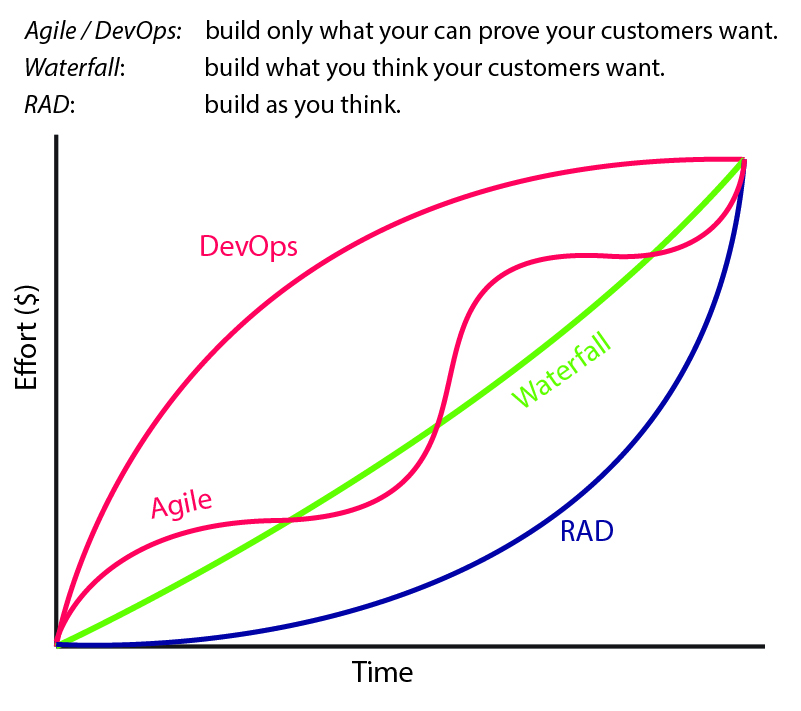
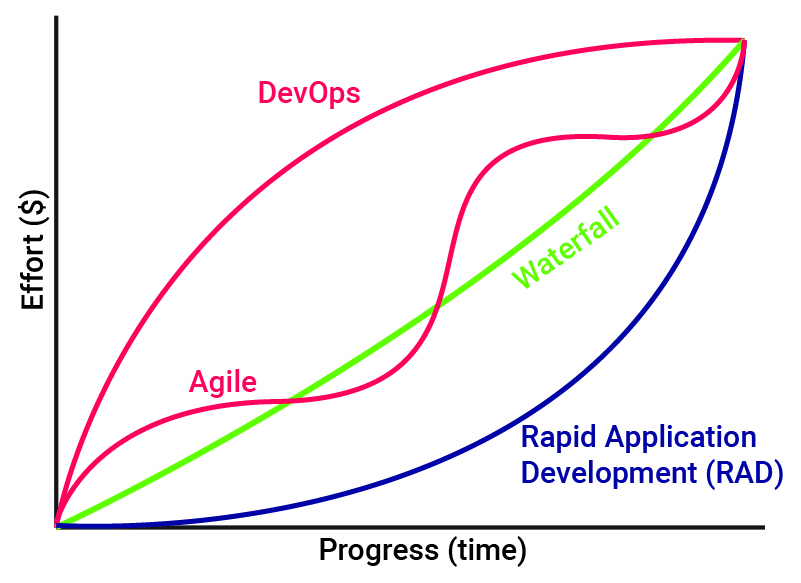
cleanup

diff --git a/src/components/AgendaItemTools.js b/src/components/AgendaItemTools.js
@@ -1,84 +1,10 @@
 import React from 'react';
-import {makeStyles} from '@material-ui/core/styles';
 import PropTypes from 'prop-types';
-import Check from '@material-ui/icons/CheckBox';
 import SpeakerNotes from '@material-ui/icons/SpeakerNotes';
-import Unchecked from '@material-ui/icons/CheckBoxOutlineBlank';
 import {withSnackbar} from 'notistack';
 import HtmlEditor from "./HtmlEditor";
 import Tabs from '@material-ui/core/Tabs';
 import Tab from '@material-ui/core/Tab';
-
-const useQontoStepIconStyles = makeStyles({
-    root: {
-        color: '#eaeaf0',
-        display: 'flex',
-        height: 22,
-        alignItems: 'center',
-    },
-    active: {
-        color: '#784af4',
-    },
-    circle: {
-        width: 8,
-        height: 8,
-        borderRadius: '50%',
-        backgroundColor: 'currentColor',
-    },
-    completed: {
-        color: '#784af4',
-        zIndex: 1,
-        fontSize: 18,
-    },
-    timer: {
-        fontSize: 11,
-        fontWeight: 800,
-        textAlign: 'center',
-        display: 'block',
-        textIndent: '-6px'
-    }
-});
-
-function QontoStepIcon(props) {
-    const classes = useQontoStepIconStyles();
-    const {status, countdown} = props;
-
-    let color = status === 'active' ? 'secondary' : 'primary';
-
-    if (typeof countdown !== 'number') return <div className={classes.circle} />
-
-    return (
-        <div>
-            {status === 'completed' ?
-                <Check className={classes.completed} color={color}/> :
-                <Unchecked color={color}/>
-            }
-            <span className={classes.timer}>{formatSeconds(countdown)}</span>
-        </div>
-    );
-}
-
-QontoStepIcon.propTypes = {
-    status: PropTypes.string,
-    active: PropTypes.bool,
-    completed: PropTypes.bool,
-};
-
-QontoStepIcon.defaultProps = {
-    status: "inactive",
-    active: false,
-    completed: false
-}
-
-const formatSeconds = (sec, len) => {
-    if (!Number(sec)) sec = 0;
-    let date = new Date(null);
-    date.setSeconds(sec); // specify value of SECONDS
-    let time = date.toISOString().substr(11, 8);
-    if (time.indexOf('01:00:00') === 0) return '60:00';
-    if (time.indexOf('00:') === 0) time = time.substr('00:'.length);
-    return time;
-}
 
 class AgendaItem extends React.Component {
 
@@ -122,18 +48,20 @@ class AgendaItem extends React.Component {
                                 className={this.state.showNotes.length > 0 ? classes.tabsHorz : classes.tabsVert}
                                 classes={{flexContainer:classes.spaceAround}}
                             >
-                                <Tab icon={<img src={'/images/Google_Sheets_logo.png'} />} classes={{root:classes.tabsIcon}} />
-                                <Tab icon={<img src={'/images/Google_Docs_logo.png'} />} classes={{root:classes.tabsIcon}} />
+                                <Tab icon={<img alt={'sheets'} src={'/images/Google_Sheets_logo.png'} />} classes={{root:classes.tabsIcon}} />
+                                <Tab icon={<img alt={'docs'} src={'/images/Google_Docs_logo.png'} />} classes={{root:classes.tabsIcon}} />
                                 <Tab icon={<SpeakerNotes/>} classes={{root:classes.tabsIcon}} />
                             </Tabs>
 
                             <TabPanel value={this.state.showNotes} index={'gsheets'}>
                                 <iframe
+                                    title='Google Sheets'
                                     src='https://docs.google.com/spreadsheets/d/1RO1mgOJoZjhGFnh0SnW4ev212LHd3byP1J-zi2BKMp8/edit?usp=sharing&rm=minimal'
                                     width={'100%'} height={'450'} seamless />
                             </TabPanel>
                             <TabPanel value={this.state.showNotes} index={'gdocs'}>
                                 <iframe
+                                    title='Google Docs'
                                     src='https://docs.google.com/document/d/1bg5p_GKXJ81CX9YhpvMVepakOcgBYDlLAYaRdFrIV0M/edit?usp=sharing&&rm=minimal'
                                     width={'100%'} height={'450'} seamless />
                             </TabPanel>

diff --git a/src/views/RallyTemplates.js b/src/views/RallyTemplates.js
@@ -1,12 +1,6 @@
 import React from 'react';
 import {withStyles} from '@material-ui/core/styles';
-import Button from '@material-ui/core/Button';
-import Paper from '@material-ui/core/Paper';
 import Typography from '@material-ui/core/Typography';
-import PropTypes from 'prop-types';
-import AppBar from '@material-ui/core/AppBar';
-import Toolbar from '@material-ui/core/Toolbar';
-// import Grid from "@material-ui/core/Grid";
 import Box from "@material-ui/core/Box";
 import {rallyStyles} from '../Util/ThemeUtils';
 import {withRouter} from "react-router";
@@ -27,28 +21,35 @@ class RallyTemplates extends React.Component {
                     <Box item className={classes.topLevelLabel} mt={2} mb={2} onClick={e => this.props.history.push(`/rally/templates/meeting/kickoff`)}>
                         <div>
                             <Typography variant={'h2'} className={classes.stepLabelText}>Kickoff</Typography>
-                            <Typography variant={'body1'}>Choose this rally type to get started</Typography>
+                            <Typography variant={'body1'}>Choose this template to get started</Typography>
                         </div>
                         <Typography variant={'caption'}>diversity ● big picture ● caring</Typography>
                     </Box>
                     <Box item className={classes.topLevelLabel} mt={2} mb={2} onClick={e => this.props.history.push(`/rally/templates/meeting/brainstorm`)}>
                         <div>
                             <Typography variant={'h2'} className={classes.stepLabelText}>Brainstorming</Typography>
-                            <Typography variant={'body1'}>Choose this rally type if you want to gather all ideas, aka diverge</Typography>
+                            <Typography variant={'body1'}>Choose this template if you want to gather all ideas, aka diverge</Typography>
                         </div>
                         <Typography variant={'caption'}>interaction ● diversity ● big picture</Typography>
                     </Box>
                     <Box item  className={classes.topLevelLabel} mt={2} mb={2} onClick={e => this.props.history.push(`/rally/templates/meeting/planning`)}>
                         <div>
                             <Typography variant={'h2'} className={classes.stepLabelText}>Planning</Typography>
-                            <Typography variant={'body1'}>Choose this rally type when you’re ready to plan</Typography>
+                            <Typography variant={'body1'}>Choose this template when you’re ready to plan</Typography>
                         </div>
                         <Typography variant={'caption'}>interaction ● sustainability ● caring</Typography>
                     </Box>
                     <Box item className={classes.topLevelLabel} mt={2} mb={2} onClick={e => this.props.history.push(`/rally/templates/meeting/action`)}>
                         <div>
                             <Typography variant={'h2'} className={classes.stepLabelText}>Action plan</Typography>
-                            <Typography variant={'body1'}>Choose this rally type to get started</Typography>
+                            <Typography variant={'body1'}>Choose this template to guide your conversation towards concrete action</Typography>
+                        </div>
+                        <Typography variant={'caption'}>action ● realizing potential</Typography>
+                    </Box>
+                    <Box item className={classes.topLevelLabel} mt={2} mb={2} onClick={e => this.props.history.push(`/rally/templates/meeting/course`)}>
+                        <div>
+                            <Typography variant={'h2'} className={classes.stepLabelText}>Course</Typography>
+                            <Typography variant={'body1'}>Choose this template to write up a lesson plan for screen and document sharing</Typography>
                         </div>
                         <Typography variant={'caption'}>action ● realizing potential</Typography>
                     </Box>

diff --git a/src/components/PlanList.js b/src/components/PlanList.js
@@ -1,14 +1,10 @@
 import React from 'react';
-import {makeStyles} from '@material-ui/core/styles';
 import Stepper from '@material-ui/core/Stepper';
 import Button from '@material-ui/core/Button';
 import Paper from '@material-ui/core/Paper';
 import Typography from '@material-ui/core/Typography';
-import PropTypes from 'prop-types';
-import Check from '@material-ui/icons/CheckBox';
 import PlayIcon from '@material-ui/icons/PlayCircleFilled';
 import StopIcon from '@material-ui/icons/PauseCircleFilled';
-import Unchecked from '@material-ui/icons/CheckBoxOutlineBlank';
 import UnfoldMore from '@material-ui/icons/UnfoldMore';
 import UnfoldLess from '@material-ui/icons/UnfoldLess';
 import VideoCall from '@material-ui/icons/VideoCall';
@@ -19,74 +15,7 @@ import Toolbar from '@material-ui/core/Toolbar';
 import MediaRecorder from "./MediaRecorder";
 import {countDown} from "../redux/entityDataReducer";
 import AgendaItem from "./AgendaItem";
-
-const useQontoStepIconStyles = makeStyles({
-    root: {
-        color: '#eaeaf0',
-        display: 'flex',
-        height: 22,
-        alignItems: 'center',
-    },
-    active: {
-        color: '#784af4',
-    },
-    circle: {
-        width: 8,
-        height: 8,
-        borderRadius: '50%',
-        backgroundColor: 'currentColor',
-    },
-    completed: {
-        color: '#784af4',
-        zIndex: 1,
-        fontSize: 18,
-    },
-    timer: {
-        fontSize: 11,
-        fontWeight: 800,
-        textAlign: 'center',
-        display: 'block',
-        textIndent: '-6px'
-    }
-});
-
-function QontoStepIcon(props) {
-    const classes = useQontoStepIconStyles();
-    const {status, countdown} = props;
-
-    let color = status === 'active' ? 'secondary' : 'primary';
-
-    if (typeof countdown !== 'number') return <div className={classes.circle}/>
-
-    return (
-        <div>
-            {status === 'completed' ? <Check className={classes.completed} color={color}/> : <Unchecked color={color}/>}
-            <span className={classes.timer}>{formatSeconds(countdown)}</span>
-        </div>
-    );
-}
-
-QontoStepIcon.propTypes = {
-    status: PropTypes.string,
-    active: PropTypes.bool,
-    completed: PropTypes.bool,
-};
-
-QontoStepIcon.defaultProps = {
-    status: "inactive",
-    active: false,
-    completed: false
-}
-
-const formatSeconds = (sec, len) => {
-    if (!Number(sec)) sec = 0;
-    let date = new Date(null);
-    date.setSeconds(sec); // specify value of SECONDS
-    let time = date.toISOString().substr(11, 8);
-    if (time.indexOf('01:00:00') === 0) return '60:00';
-    if (time.indexOf('00:') === 0) time = time.substr('00:'.length);
-    return time;
-}
+import { formatSeconds} from "../Util/WindowUtils";
 
 class PlanList extends React.Component {
 

diff --git a/src/components/AgendaItem.js b/src/components/AgendaItem.js
@@ -14,6 +14,7 @@ import {withSnackbar} from 'notistack';
 import Config from '../Config';
 import AgendaItemForm from "./AgendaItemForm";
 import AgendaItemTools from "./AgendaItemTools";
+import { formatSeconds} from "../Util/WindowUtils";
 // import SvgIcon from '@material-ui/core/SvgIcon';
 // import {ReactComponent as GoogleSheetsIcon} from '../assets/Google_Sheets_logo.png';
 // import {ReactComponent as GoogleDocsIcon} from '../assets/Google_Docs_logo.png';
@@ -69,24 +70,11 @@ function QontoStepIcon(props) {
 
 QontoStepIcon.propTypes = {
     status: PropTypes.string,
-    active: PropTypes.bool,
-    completed: PropTypes.bool,
+    countdown : PropTypes.number
 };
 
 QontoStepIcon.defaultProps = {
-    status: "inactive",
-    active: false,
-    completed: false
-}
-
-const formatSeconds = (sec, len) => {
-    if (!Number(sec)) sec = 0;
-    let date = new Date(null);
-    date.setSeconds(sec); // specify value of SECONDS
-    let time = date.toISOString().substr(11, 8);
-    if (time.indexOf('01:00:00') === 0) return '60:00';
-    if (time.indexOf('00:') === 0) time = time.substr('00:'.length);
-    return time;
+    status: "inactive"
 }
 
 class AgendaItem extends React.Component {
@@ -122,7 +110,7 @@ class AgendaItem extends React.Component {
                     </div>
                 </StepLabel>
                 <StepContent className={classes.stepContent}>
-                    <Grid container justify={'space-around'} spacing={0} wrap={'nowrap'}>
+                    <Grid container justify={'space-around'} spacing={0}>
                         <Grid item style={{fontSize: 20, flexGrow:1}}>
                             {curItem.html ?
                                 <SanitizedHTML

diff --git a/src/components/RallyBlock.js b/src/components/RallyBlock.js
@@ -28,11 +28,11 @@ class RallyHome extends Component {
             return acc;
         }, [])
         if (tags.length > 0) {
-            tags = [<div>{tags.join(' ● ')}</div>]
+            tags = [<div key={'tags'}>{tags.join(' ● ')}</div>]
         }
         if (rally.type === 'meeting') {
             let href = document.location.pathname.split('/').slice(0, 3).join('/');
-            tags.push(<NavLink to={href}>Rally Series</NavLink>)
+            tags.push(<NavLink key={'series'} to={href}>Rally Series</NavLink>)
         }
 
         return (
@@ -64,10 +64,8 @@ class RallyHome extends Component {
                         <Box mt={4}>
                             <div>Hosts</div>
                             <AvatarGroup>
-                                {rally.hosts.map(r => <Avatar key={r.img} alt={r.name}
-                                                                                  src={r.img}/>)}
-                                {rally.speakers && rally.speakers.map(r => <Avatar key={r.img} alt={r.name}
-                                                                 src={r.img}/>)}
+                                {rally.hosts.map(r => <Avatar key={r.img} alt={r.name} src={r.img}/>)}
+                                {rally.speakers && rally.speakers.map(r => <Avatar key={r.img} alt={r.name} src={r.img}/>)}
                                 <Avatar alt="add" onClick={e => alert('TODO: Join rally')}>+</Avatar>
                             </AvatarGroup>
                         </Box>

diff --git a/src/views/RallyHome.js b/src/views/RallyHome.js
@@ -38,8 +38,7 @@ class RallyHome extends Component {
 
     render() {
         if (this.props.entity.loading === true) return <ProgressLoading/>;
-        if (this.props.entity.error) return <div style={{width: '100%', textAlign: 'center', margin: '20px auto'}}>
-            <Typography variant='h2'>{this.props.entity.error}</Typography></div>;
+        if (this.props.entity.error) return <div style={{width: '100%', textAlign: 'center', margin: '20px auto'}}><Typography variant='h2'>{this.props.entity.error}</Typography></div>;
         if (!this.props.entity.apiData) return 'no results';
         const rally = this.props.entity.apiData;
 
@@ -54,7 +53,7 @@ class RallyHome extends Component {
                     <Box p={3}>
                         <Typography variant='subtitle1'>Meetings</Typography>
                         {rally.meetings.map(r => {
-                            return <Grid item>
+                            return <Grid item key={r.title}>
                                 <NavLink to={r.link}>
                                     <Typography variant={'h4'}>{r.title}</Typography>
                                 </NavLink>
@@ -66,9 +65,6 @@ class RallyHome extends Component {
                     </Box>
                 }
             </React.Fragment>
-
-
-
         );
     }
 

diff --git a/src/views/MeetingHome.js b/src/views/MeetingHome.js
@@ -11,7 +11,6 @@ import ExportIcon from "@material-ui/icons/ImportExport";
 import Button from "@material-ui/core/Button";
 import {withSnackbar} from "notistack";
 import RallyBlock from "../components/RallyBlock";
-import Box from "@material-ui/core/Box";
 import Create from "@material-ui/icons/Create";
 import Grid from "@material-ui/core/Grid";
 
@@ -66,7 +65,7 @@ class MeetingHome extends Component {
                     <Button onClick={e => {
                         console.log(this.props.entity.apiData)
                         this.props.enqueueSnackbar('For now, e-mail eli the JSON printed to your console in Developer Tools');
-                    }} startIcon={<ExportIcon />} variant={'contained'} color={'info'} disableElevation={true} >Export Meeting</Button>
+                    }} startIcon={<ExportIcon />} variant={'contained'} disableElevation={true} >Export Meeting</Button>
                 </Grid>
 
             </div>

diff --git a/src/Util/WindowUtils.js b/src/Util/WindowUtils.js
@@ -12,3 +12,13 @@ export function getParam(name, url, d) {
     if (vals.length === 1) return vals[0];
     return vals;
 };
+
+export const formatSeconds = (sec, len) => {
+    if (!Number(sec)) sec = 0;
+    let date = new Date(null);
+    date.setSeconds(sec); // specify value of SECONDS
+    let time = date.toISOString().substr(11, 8);
+    if (time.indexOf('01:00:00') === 0) return '60:00';
+    if (time.indexOf('00:') === 0) time = time.substr('00:'.length);
+    return time;
+}

diff --git a/src/views/Rallies.js b/src/views/Rallies.js
@@ -7,7 +7,6 @@ import {NavLink} from "react-router-dom";
 class Rallies extends React.Component {
 
     render() {
-        const {classes} = this.props;
         return (
             <Box m={4} >
                 <Box mb={4} >
